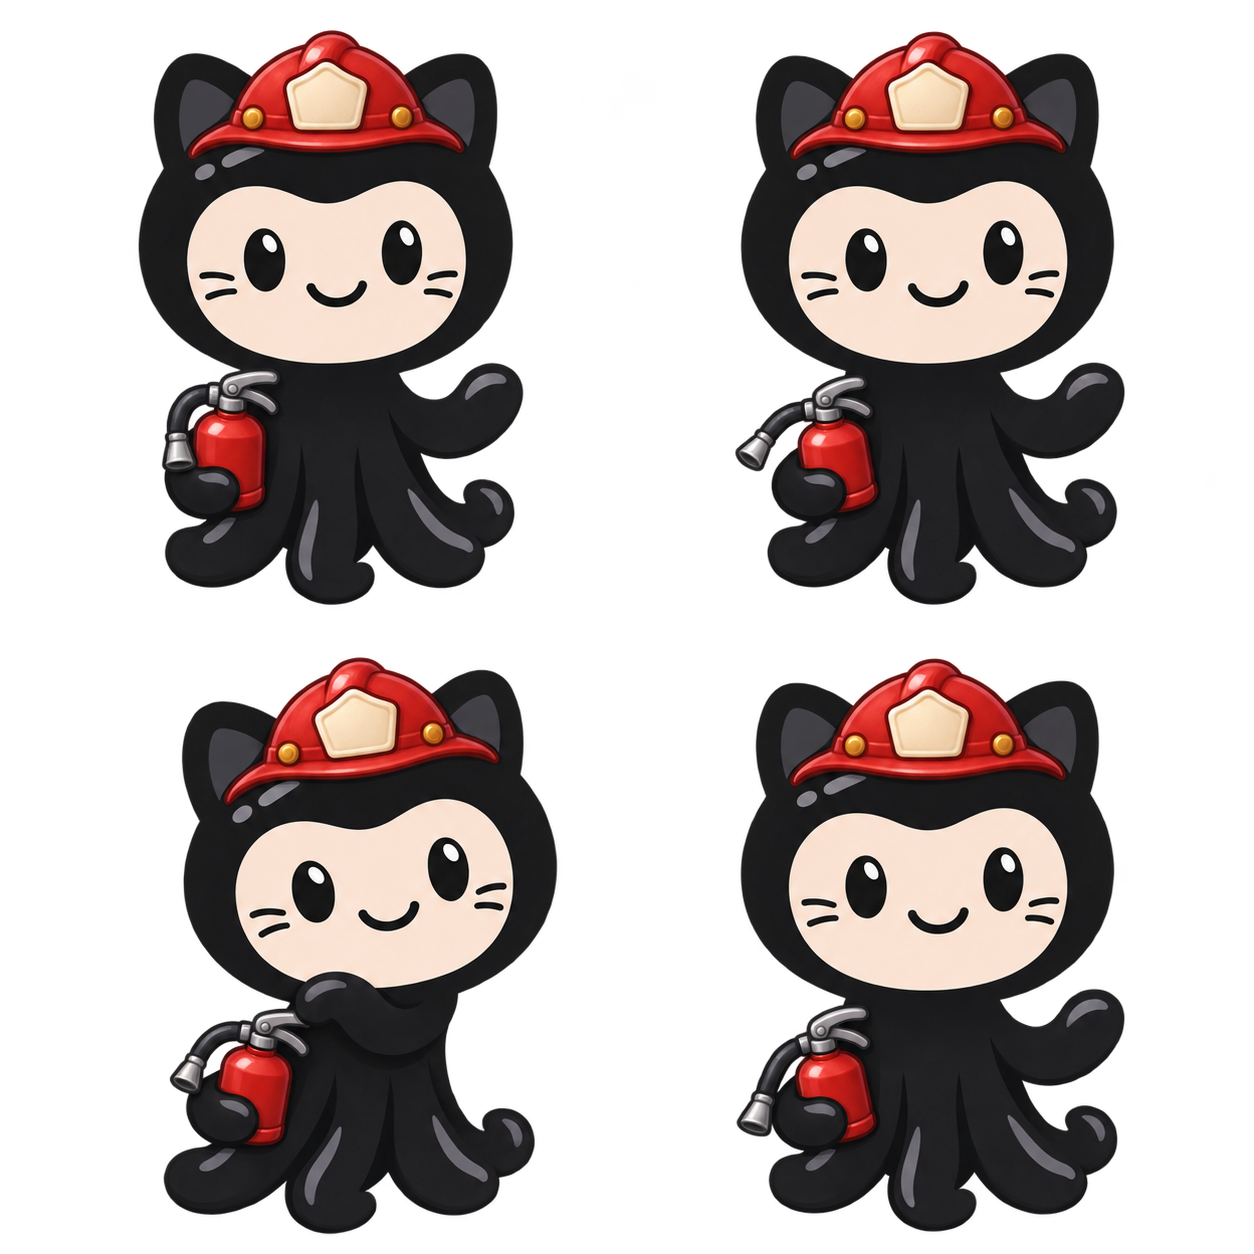
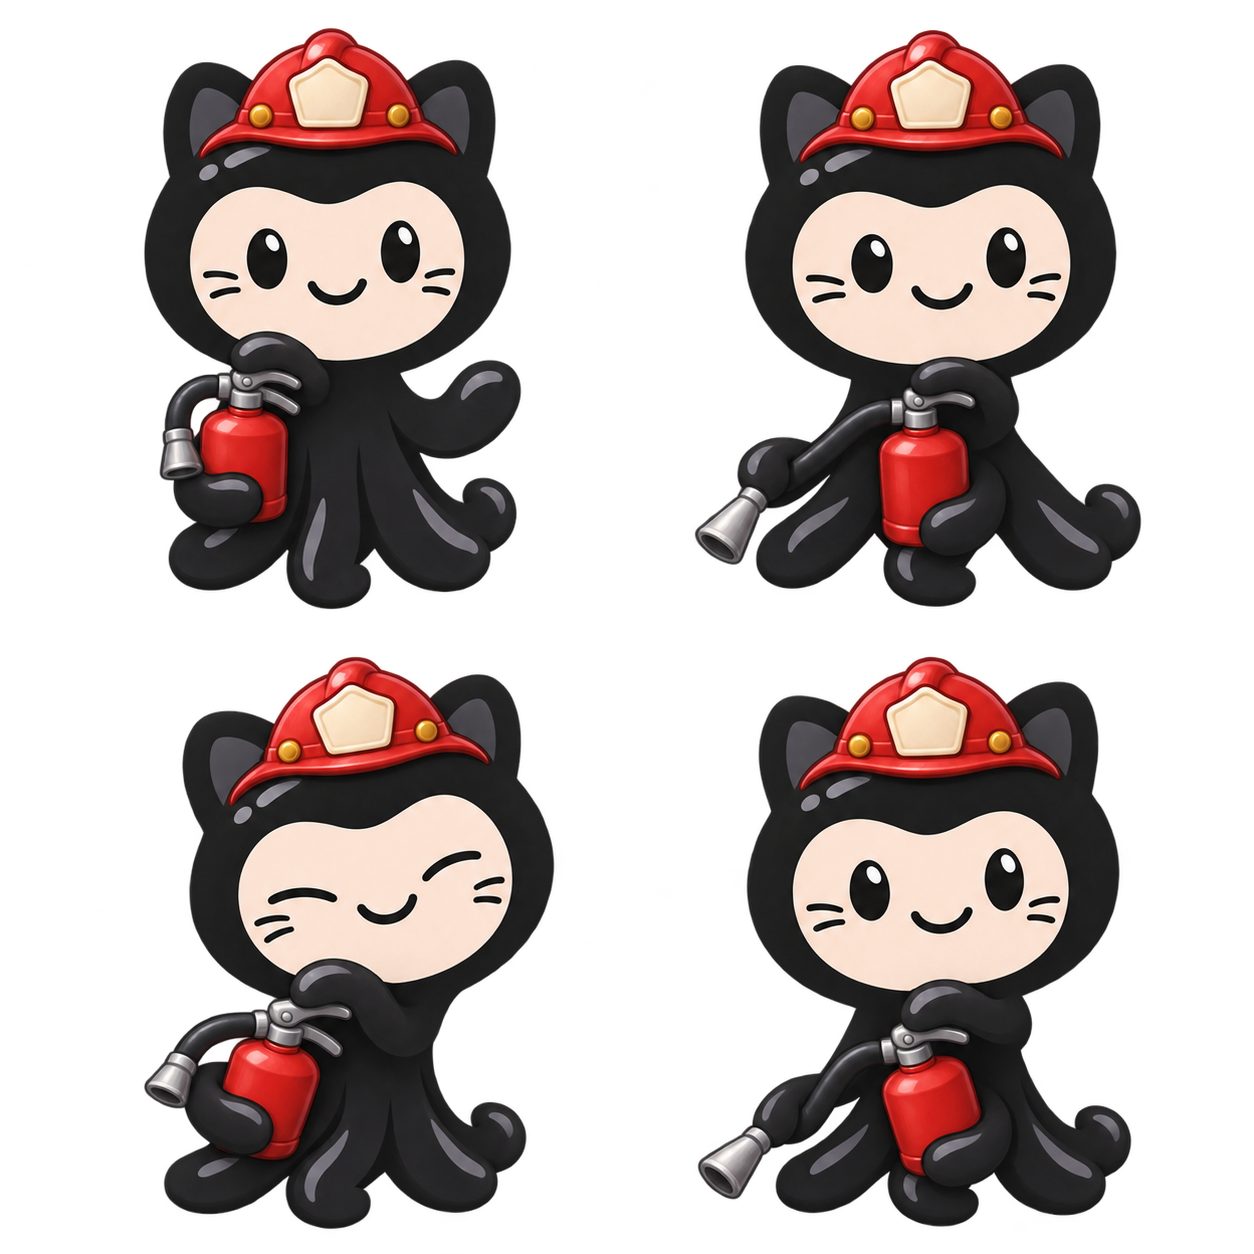
Revise Mona incident end action sheet

diff --git a/docs/design/provenance.md b/docs/design/provenance.md
@@ -133,6 +133,10 @@ Little Chris ambient C review: phone stays compact; doze head lowering and breat
 
 FX review: retry separates eight sprites with clear cell gaps; smoke 01 has a detached small puff and the z resembles uppercase. Initial `exec-3fc75b78-2272-4a20-99b2-5156347d94a9` had halos crossing cells. One retry used. Runtime downsampling and margins unverified.
 
[1 lines of base64/hex data omitted]
+
+Incident-end A replacement review: 01 and 03 grip the nozzle and aim down-left; 02 squints but does not visibly hold the nozzle and lean is slight. No spray or visible motion marks. Nozzle extends left beyond idle silhouette in 01 and 03; bounds and baseline unverified. No retry.
+
 Both images are 1254×1254 and have alpha channels. Visual review: the helmet in pose 02 is already seated rather than clearly in transit, pose 01 looks forward rather than alert down-left, and pose 00's gaze is not clearly down-left. Helmet-on poses change the apparent head silhouette and scale; the helmet crown and overall bounds require measurement during later packing and review. No runtime frame, baseline, or bounds validation is claimed here. The props sheet places the helmet close to the central cell boundary. No retry or retouch was performed.
 
 Generated on 2026-11-12 using the built-in `image_gen.imagegen` integration under the imagegen skill. The orchestration terminal was launched with `gpt-6.1-sol`; the image integration does not expose its image-model identifier. No alternative model, procedural mascot, downloaded Octocat artwork, official GitHub logo, or credential was used.
